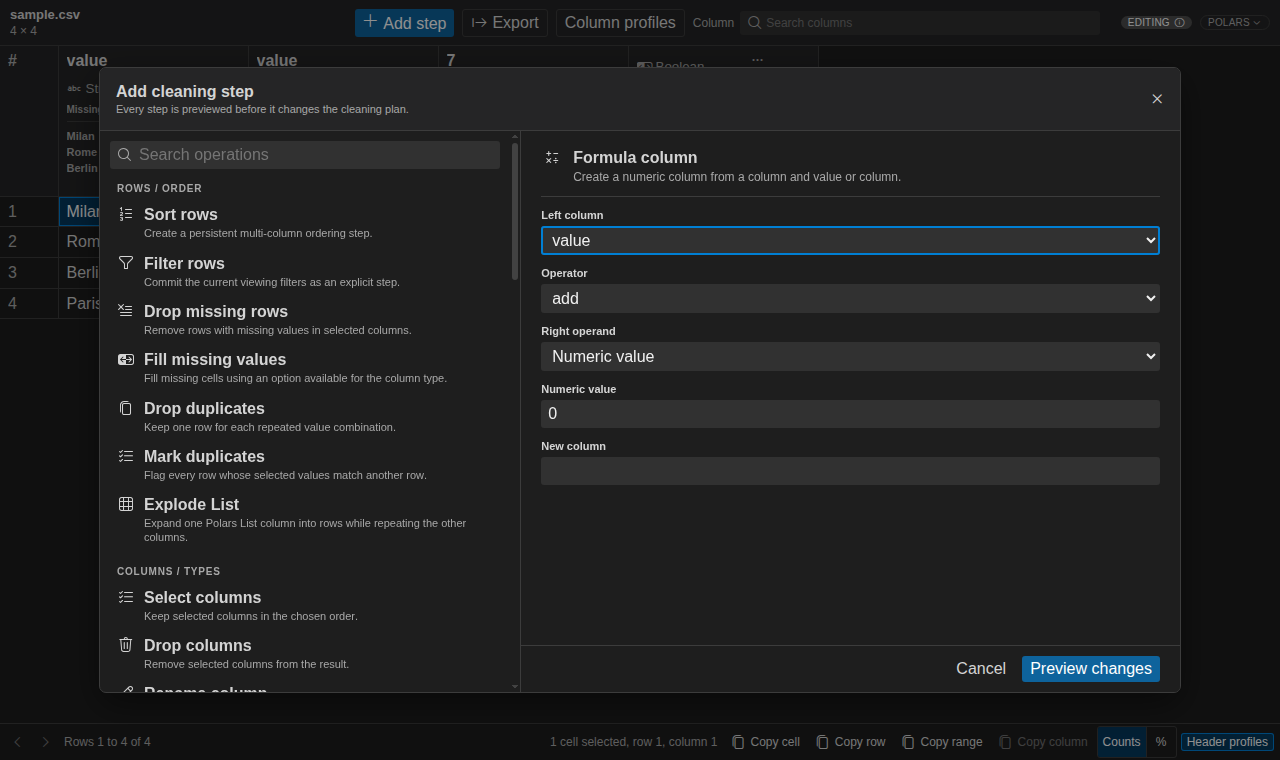
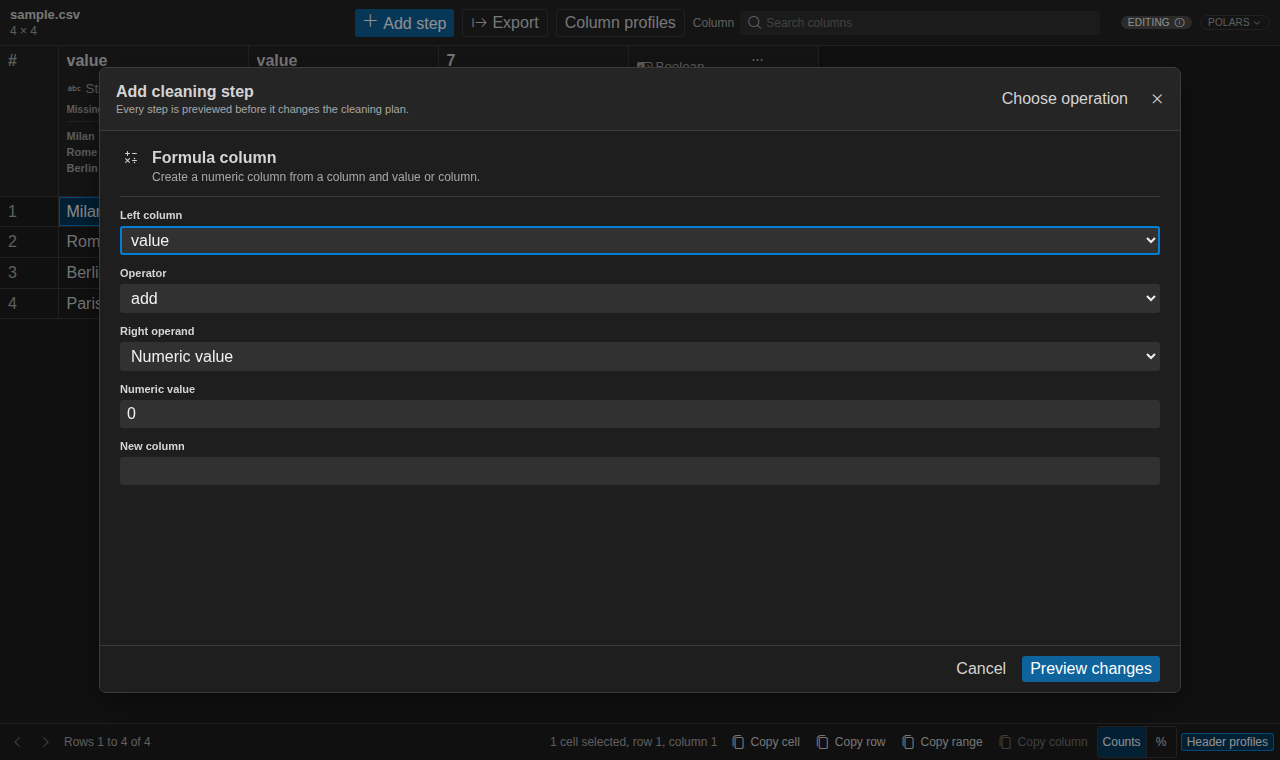
Keep operation dialog media aligned with catalog disclosure

diff --git a/src/test/extensionHost/index.ts b/src/test/extensionHost/index.ts
@@ -12101,7 +12101,7 @@ async function capturePackagedOperationDialogScenes(
 
 async function assertPackagedOperationDialogGeometry(
   dialog: Locator,
-  scene: "catalog" | "configuration"
+  scene: "catalog" | "configuration" | "saved-step"
 ): Promise<void> {
   const geometry = await dialog.evaluate((element) => {
     type DialogElement = {
@@ -12151,10 +12151,12 @@ async function assertPackagedOperationDialogGeometry(
   );
   assert.ok(geometry.bodyOverflow <= 1, `${scene} operation dialog must not overflow horizontally.`);
   assert.ok(geometry.headerOverflow <= 1, `${scene} operation dialog header must not clip.`);
-  assert.equal(geometry.catalogVisible, true);
+  assert.equal(geometry.catalogVisible, scene !== "saved-step");
   assert.equal(geometry.formVisible, true);
-  assert.equal(geometry.searchIconContained, true, `${scene} search icon must stay inside its input.`);
-  assert.ok(geometry.searchIconCenterDelta <= 1, `${scene} search icon must be vertically centered in its input.`);
+  if (scene !== "saved-step") {
+    assert.equal(geometry.searchIconContained, true, `${scene} search icon must stay inside its input.`);
+    assert.ok(geometry.searchIconCenterDelta <= 1, `${scene} search icon must be vertically centered in its input.`);
+  }
 }
 
 async function capturePackagedImportOptionsScene(
@@ -12455,7 +12457,7 @@ async function capturePackagedEditAndUndoScenes(
   );
   assert.equal(await dialog.getByLabel("Numeric value", { exact: true }).inputValue(), "500");
   assert.equal(await dialog.getByLabel("New column", { exact: true }).inputValue(), "projected_revenue");
-  await assertPackagedOperationDialogGeometry(dialog, "configuration");
+  await assertPackagedOperationDialogGeometry(dialog, "saved-step");
   await dialog.getByLabel("Numeric value", { exact: true }).fill("750");
   await dialog.getByRole("button", { name: "Preview changes", exact: true }).click();
   await waitFor(
